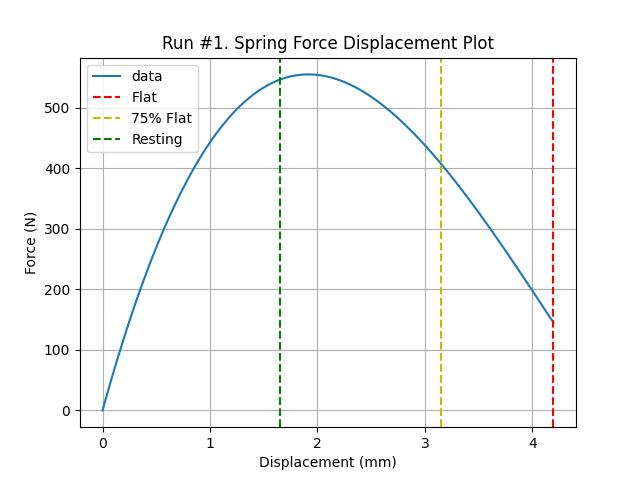
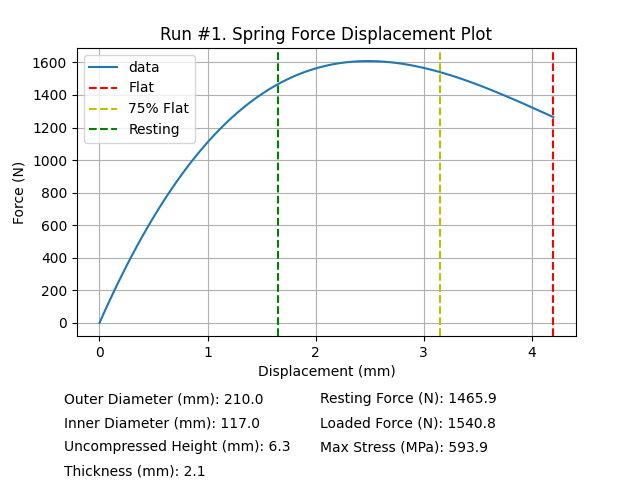
new runs

diff --git a/discspring.py b/discspring.py
@@ -84,8 +84,7 @@ class DiscSpring:
 
         for i in range(len(s)):
             F[i] = self.find_force(s[i])
-
-        
+ 
         plt.plot(s,F, label='data')
         plt.axvline(x=self.h0, c='r', ls='--', label='Flat')
         plt.axvline(x=0.75*self.h0, c='y', ls='--', label='75% Flat')
@@ -96,6 +95,19 @@ class DiscSpring:
         plt.ylabel("Force (N)")
         plt.title("Run #{}. Spring Force Displacement Plot".format(number+1))
         plt.grid(which='major')
+
+        plt.subplots_adjust(left=0.12, right=0.9, top=0.9, bottom=0.3)
+        textstr = "teststr"
+        plt.gcf().text(0.1, 0.16, "Outer Diameter (mm): %.1f" % self.D_e, fontsize=10)
+        plt.gcf().text(0.1, 0.11, "Inner Diameter (mm): %.1f" % self.D_i, fontsize=10)
+        plt.gcf().text(0.1, 0.06, "Uncompressed Height (mm): %.1f" % self.I_o, fontsize=10)
+        plt.gcf().text(0.1, 0.01, "Thickness (mm): %.1f" % self.t, fontsize=10)
+
+        plt.gcf().text(0.5, 0.16, 'Resting Force (N): %.1f' % self.find_force(self.h0*0.75 - 1.5), fontsize=10)
+        plt.gcf().text(0.5, 0.11, "Loaded Force (N): %.1f" % self.find_force(self.h0*0.75), fontsize=10)
+        plt.gcf().text(0.5, 0.06, "Max Stress (MPa): %.1f" % max(self.find_max_stress()), fontsize=10)
+        
+
         plt.savefig("figures/run{}".format(number+1))
         plt.show()
         plt.close()
@@ -125,3 +137,16 @@ class DiscSpring:
             (self.h0/self.t - s/(2*self.t)) + self.K_3)
 
         return stress
+
+    def find_max_stress(self):
+        max_s = 0.75 * self.h0
+        
+        StressTable = np.zeros([100,5])
+        for j in range(100):
+            StressTable[j] = self.find_stress(max_s*(j+1)/100)
+        
+
+        max_stress = np.amax(StressTable, axis=0)
+
+        
+        return max_stress

diff --git a/main.py b/main.py
@@ -7,14 +7,14 @@ import sys
 
 if __name__ == "__main__":
 
-    Data = pd.read_csv("spring_input_1.csv")
+    Data = pd.read_csv("spring_input_2.csv")
     Table = Data.values.tolist()
     Columns = Data.columns
 
     # optum =  Optimizer([210,140,8,3])
     # solution = optum.solution()
 
-    # spring = DiscSpring(solution.x)
+    # spring = DiscSpring([210,117,6.3,2.1])
     # max_s = 0.75 * spring.h0
 
     # print("Force:{}".format(spring.find_force(max_s)))
@@ -43,7 +43,7 @@ if __name__ == "__main__":
         spring.plot_force(i)
 
     Output = pd.DataFrame(Table, columns=Columns)
-    Output.to_csv("spring_input_1.csv", index=False)
+    Output.to_csv("spring_input_2.csv", index=False)
     
 
    

diff --git a/optimizer.py b/optimizer.py
@@ -30,13 +30,13 @@ class Optimizer():
         allowable_stress = 600 
 
         spring = DiscSpring(guess)
-        max_s = 0.75 * spring.h0
+        # max_s = 0.75 * spring.h0
         
-        StressTable = np.zeros([100,5])
-        for i in range(100):
-            StressTable[i] = spring.find_stress(max_s*(i+1)/100)
+        # StressTable = np.zeros([100,5])
+        # for i in range(100):
+        #     StressTable[i] = spring.find_stress(max_s*(i+1)/100)
 
-        max_stress = np.max(StressTable)
+        max_stress = spring.find_max_stress()
 
         return allowable_stress - max_stress
 
